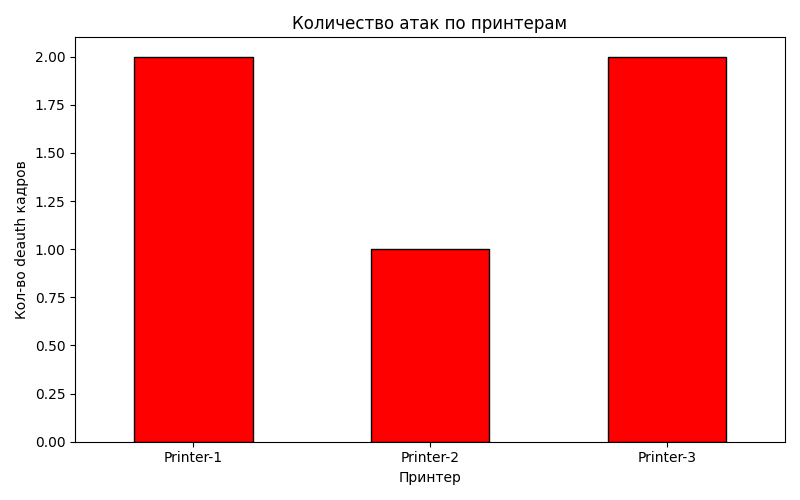
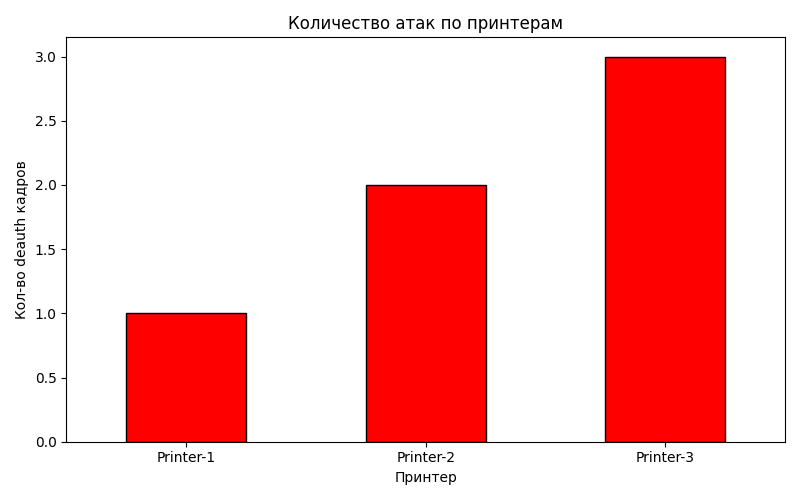
Fix errors in network sniffer script and its visualizations
Corrects a SyntaxError in `sniffer.py` by changing `frames.append{` to `frames.append(`. Also removes an unnecessary import `from lr import ftype, attack_df` as `ftype` is defined locally and `attack_df` is not used. Additionally, fixes an issue where `random.choices()` returned a list instead of a string for `printer_name`, preventing dictionary indexing errors.

Replit-Commit-Author: Agent
Replit-Commit-Session-Id: 04c5d4ea-c249-46c1-8857-01675693be14
Replit-Commit-Checkpoint-Type: full_checkpoint
Replit-Commit-Event-Id: 2788608f-bd99-437e-bb03-fe2488e38c2f
Replit-Helium-Checkpoint-Created: true

diff --git a/sniffer.py b/sniffer.py
@@ -1,0 +1,106 @@
+# Контейнер сниффера (802.11)
+import random
+import pandas as pd
+import matplotlib.pyplot as plt
+
+# Настройки сети
+AP_MAC = 'AA:BB:CC:DD:EE:FF'
+SSID = 'OfficeNet_5G'
+Deauth_threshold = 2  # сколько deauth подряд считается атакой
+
+Printers = {
+    'Printer-1': '11:22:33:44:55:66',
+    'Printer-2': '22:33:44:55:66:77',
+    'Printer-3': '33:44:55:66:77:88'
+}
+
+Normal_types = ['BEACON', 'DATA', 'DATA', 'ASSOC_REQ', 'PROBE_REQ']
+
+frames = []
+
+# у каждого принтера свой brust-счетчик
+burst = {'Printer-1': 0, 'Printer-2': 0, 'Printer-3': 0}
+
+for i in range(15):
+  # Каждый кадр - выбираем случайный принтер как цель
+  printer_name = random.choice(list(Printers.keys()))
+  printer_mac = Printers[printer_name]
+
+  # Зона атаки - кадры 6-12, вероятность 70%
+  is_attack = 6 <= i < 13 and random.random() < 0.7
+
+  if is_attack:
+    ftype =  'DEAUTH'
+    src = AP_MAC # подмененный MAC точки доступа
+    burst[printer_name] += 1
+
+  else:
+     ftype = random.choice(Normal_types)
+     src = AP_MAC if ftype in ('BEACON', 'ASSOC_REQ') else printer_mac
+     burst[printer_name] = 0 # сброс при нормальном кадре
+
+  # Решение о блокировке
+  if ftype == 'DEAUTH' and is_attack and burst[printer_name] >= Deauth_threshold:    
+     status = 'BLOCKED'
+  elif  ftype == 'DEAUTH' and is_attack:
+     status = 'WARN'
+  else:
+     status = 'OK'
+
+  frames.append({
+     '№': i + 1,
+     'Принтер': printer_name,
+     'Тип': ftype,
+     'MAC': src,
+     'Статус': status,
+  })
+
+# Табличный вывод
+df = pd.DataFrame(frames)
+
+print()
+print('Таблица 1: Все кадры')
+print(df.to_string(index=False))
+
+print()
+print('Таблица 2: Статистика по принтерам')
+printer_stats = df.groupby('Принтер')['Статус'].value_counts().unstack(fill_value=0)
+print(printer_stats.to_string())
+
+print()
+print('Таблица 3: Итого по статусам')
+print(df['Статус'].value_counts().to_string())
+
+# Визуализация
+# График 1: Статусы по каждому принтеру
+plt.figure(figsize=(9, 5))
+printer_stats.plot(kind='bar', color=['green', 'red', 'orange'], edgecolor='black')
+plt.title('Статусы кадров по принтерам')
+plt.xlabel('Принтер')
+plt.ylabel('Количество кадров')
+plt.xticks(rotation=0)
+plt.legend(title='Статус')
+plt.tight_layout()
+plt.savefig('printer_stats.png')
+
+# График 2: Общее соотношение статусов
+plt.figure(figsize=(6, 6))
+status_counts = df['Статус'].value_counts()
+colors = ['green' if s == 'OK' else 'red' if s == 'BLOCKED' else 'orange'
+          for s in status_counts.index]
+plt.pie(status_counts, labels=status_counts.index, autopct='%1.1f%%',
+        colors=colors, explode=[0.05] * len(status_counts))
+plt.title('Соотношение статусов обработки')
+plt.savefig('status_pie.png')
+
+# График 3: Кол-во атак по принтерам
+plt.figure(figsize=(8, 5))
+attack_df = df[df['Статус'].isin(['WARN', 'BLOCKED'])]
+attack_counts = attack_df.groupby('Принтер').size()
+attack_counts.plot(kind='bar', color='red', edgecolor='black')
+plt.title('Количество атак по принтерам')
+plt.xlabel('Принтер')
+plt.xticks(rotation=0)
+plt.ylabel('Кол-во deauth кадров')
+plt.tight_layout()
+plt.savefig('attacks_by_printer.png')
